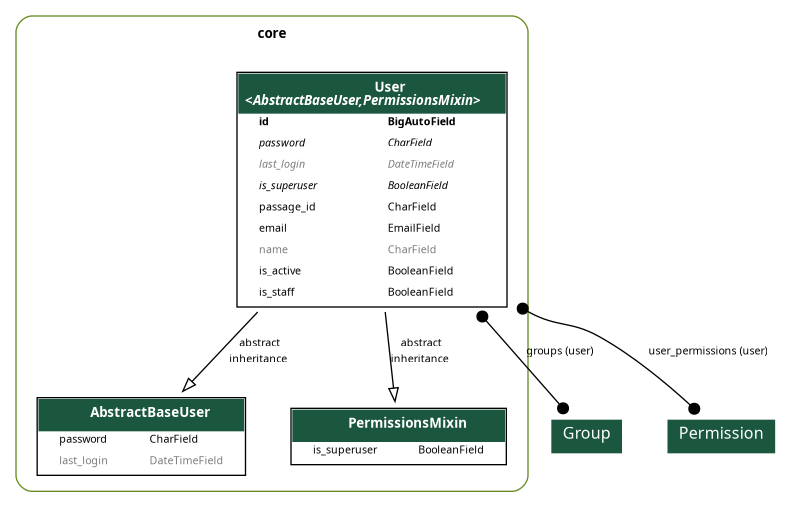
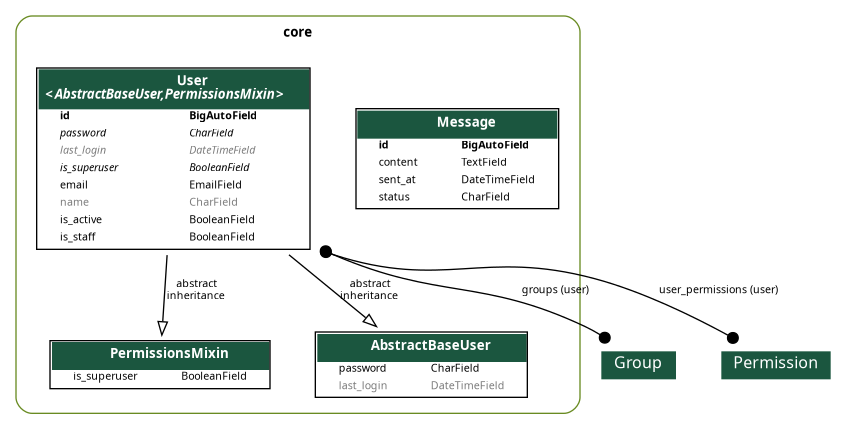
feat: criação da API para Mensagem

Changed region(s): [[0.0, 0.0303, 1.0, 0.9697]]

diff --git a/core/migrations/0006_message.py b/core/migrations/0006_message.py
@@ -1,0 +1,22 @@
+# Generated by Django 5.2.12 on 2026-04-17 14:09
+
+from django.db import migrations, models
+
+
+class Migration(migrations.Migration):
+
+    dependencies = [
+        ('core', '0005_remove_user_passage_id'),
+    ]
+
+    operations = [
+        migrations.CreateModel(
+            name='Message',
+            fields=[
+                ('id', models.BigAutoField(auto_created=True, primary_key=True, serialize=False, verbose_name='ID')),
+                ('content', models.TextField()),
+                ('sent_at', models.DateTimeField()),
+                ('status', models.CharField(choices=[('enviada', 'Enviada'), ('lida', 'Lida')], default='enviada', max_length=10)),
+            ],
+        ),
+    ]

diff --git a/core/models/message.py b/core/models/message.py
@@ -1,0 +1,22 @@
+from django.db import models
+
+
+class Message(models.Model):
+    STATUS_ENVIADA = 'enviada'
+    STATUS_LIDA = 'lida'
+
+    STATUS_CHOICES = [
+        (STATUS_ENVIADA, 'Enviada'),
+        (STATUS_LIDA, 'Lida')
+    ]
+
+    content = models.TextField()
+    sent_at = models.DateTimeField()
+    status = models.CharField(
+        max_length=10,
+        choices=STATUS_CHOICES,
+        default=STATUS_ENVIADA
+    )
+
+    def __str__(self):
+        return f'({self.sent_at} - {self.status})'

diff --git a/core/admin.py b/core/admin.py
@@ -6,9 +6,19 @@ from django.contrib import admin
 from django.contrib.auth.admin import UserAdmin as BaseUserAdmin
 from django.utils.translation import gettext_lazy as _
 
-from core import models
+from core.models import Message, User
 
 
[email redacted](Message)
+class MessageAdmin(admin.ModelAdmin):
+    list_display = ('status', 'sent_at')
+    search_fields = ('status', 'sent_at')
+    list_filter = ('status', 'sent_at')
+    ordering = ('status', 'sent_at')
+    list_per_page = 10
+
+
[email redacted](User)
 class UserAdmin(BaseUserAdmin):
     """Define the admin pages for users."""
 
@@ -49,6 +59,3 @@ class UserAdmin(BaseUserAdmin):
             },
         ),
     )
-
-
-admin.site.register(models.User, UserAdmin)

diff --git a/core/serializers/message.py b/core/serializers/message.py
@@ -1,0 +1,9 @@
+from rest_framework.serializers import ModelSerializer
+
+from core.models import Message
+
+
+class MessageSerializer(ModelSerializer):
+    class Meta:
+        model = Message
+        fields = '__all__'

diff --git a/core/views/message.py b/core/views/message.py
@@ -1,0 +1,9 @@
+from rest_framework.viewsets import ModelViewSet
+
+from core.models import Message
+from core.serializers import MessageSerializer
+
+
+class MessageViewSet(ModelViewSet):
+    queryset = Message.objects.all()
+    serializer_class = MessageSerializer

diff --git a/app/urls.py b/app/urls.py
@@ -12,10 +12,11 @@ from rest_framework_simplejwt.views import (
     TokenVerifyView,
 )
 
-from core.views import UserRegistrationView, UserViewSet
+from core.views import MessageViewSet, UserRegistrationView, UserViewSet
 
 router = DefaultRouter()
 
+router.register(r'menssagens', MessageViewSet, basename='menssagens')
 router.register(r'usuarios', UserViewSet, basename='usuarios')
 
 urlpatterns = [

diff --git a/core/models/__init__.py b/core/models/__init__.py
@@ -1,1 +1,2 @@
+from .message import Message
 from .user import User

diff --git a/core/serializers/__init__.py b/core/serializers/__init__.py
@@ -1,1 +1,2 @@
+from .message import MessageSerializer
 from .user import UserRegistrationSerializer, UserSerializer

diff --git a/core/views/__init__.py b/core/views/__init__.py
@@ -1,1 +1,2 @@
+from .message import MessageViewSet
 from .user import UserRegistrationView, UserViewSet